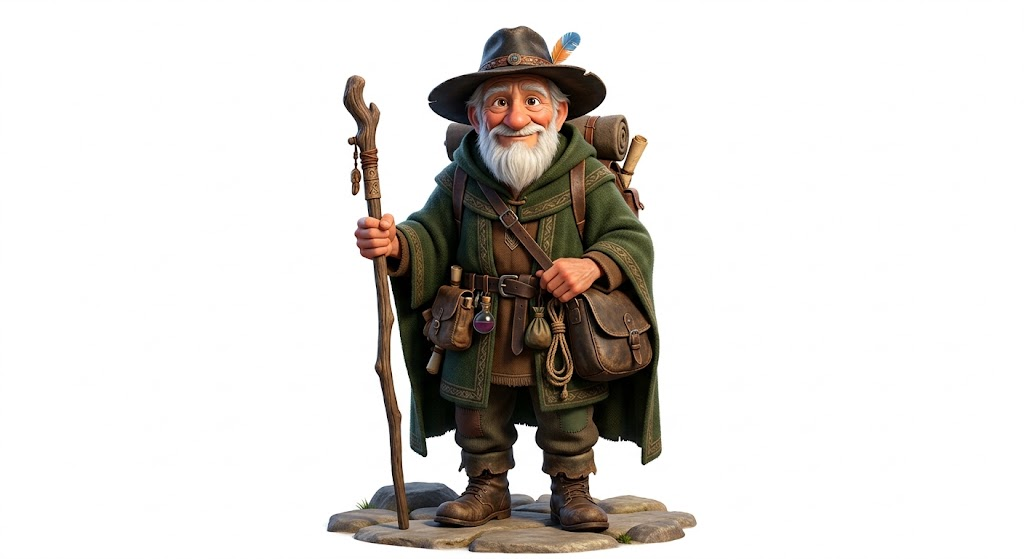
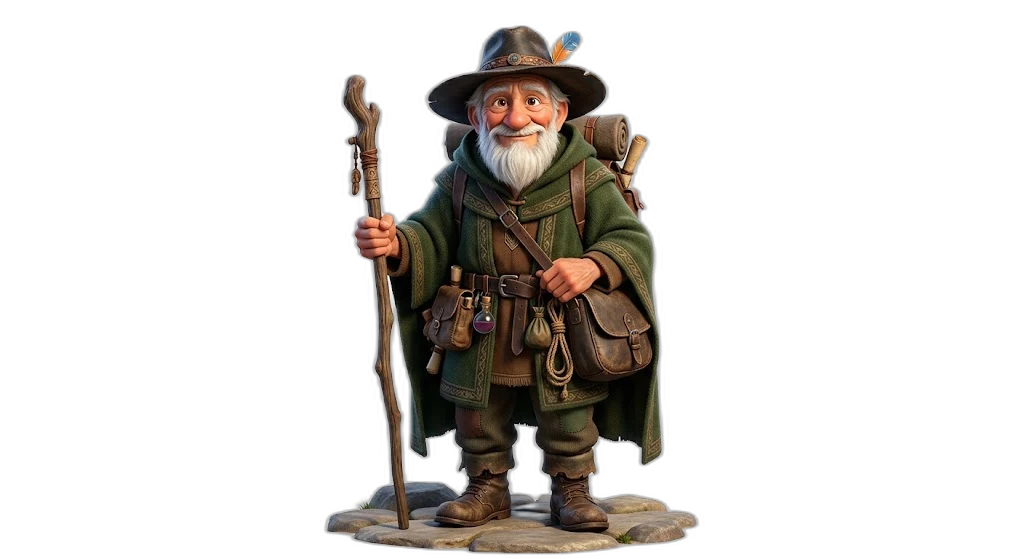
Mercante Itinerante: sfondo rimosso e icona 56px (doppia) (#406)

diff --git a/style.css b/style.css
@@ -5673,6 +5673,7 @@ img.challenge-icon { width: 36px; height: 36px; object-fit: contain; filter: dro
 /* ── Mercante Itinerante ─────────────────────────────────── */
 .merchant-panel { border: 1.5px solid rgba(255,200,50,.3); }
 .merchant-panel .panel-title { color: var(--gold-bright); }
+.merchant-panel .panel-title .panel-title-icon { width: 56px; height: 56px; vertical-align: -18px; margin-right: 6px; }
 .merchant-offers-grid {
   display: grid;
   grid-template-columns: repeat(3, 1fr);

diff --git a/sw.js b/sw.js
@@ -5,7 +5,7 @@
 
 
 
-const CACHE = "heropace-v580";
+const CACHE = "heropace-v581";
 const NOTIF_CACHE = 'heropace-notif-v1'; // stato notifiche (non cancellare mai)
 
 /* File locali per fallback offline */
